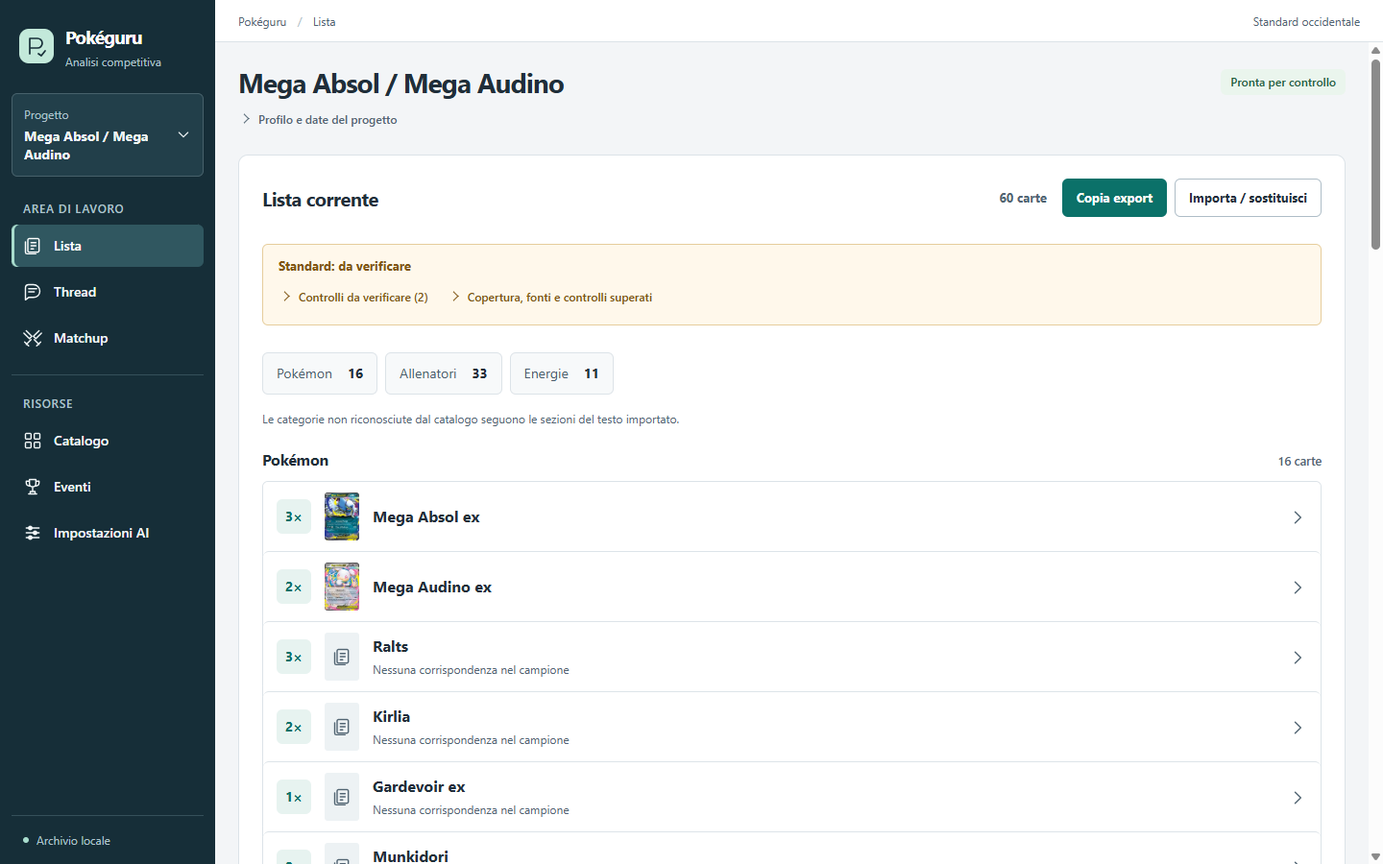
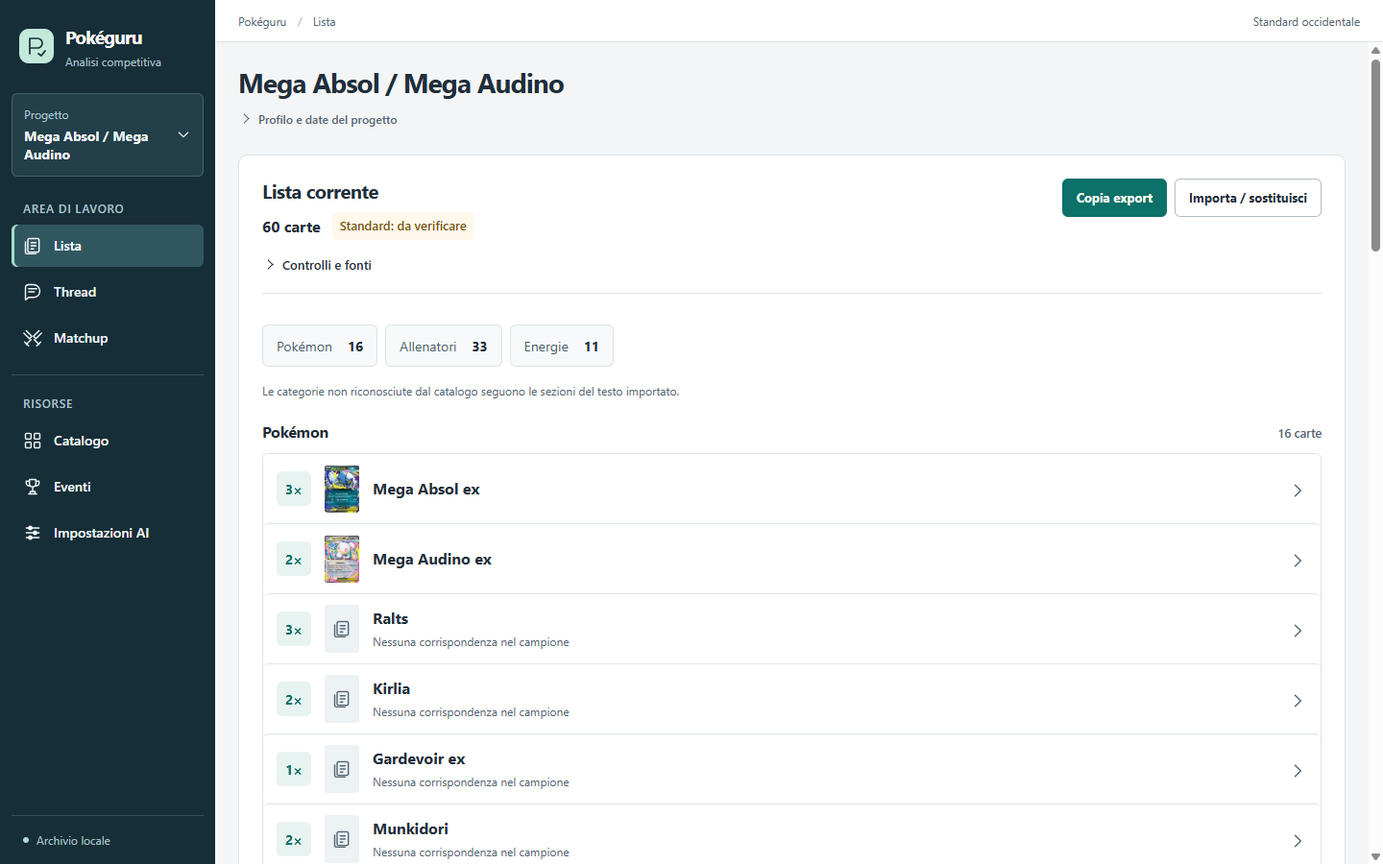
fix(ui): unify deck total and Standard status summary

diff --git a/src/renderer/src/DeckList.tsx b/src/renderer/src/DeckList.tsx
@@ -13,6 +13,7 @@ import type { StandardRuleAudit } from '../../shared/standard-rule-audit'
 import { reviewSummary } from './review-summary'
 import { CardThumbnail } from './CardThumbnail'
 import { deckThumbnail, groupDeckCards } from './deck-presentation'
+import { ExportButton } from './ExportButton'
 
 function localDate(): string {
   const now = new Date()
@@ -32,13 +33,14 @@ function cardStatus(status: 'recognized' | 'unverified' | 'ambiguous' | 'outside
     catalog.scope.kind === 'sample' ? 'Nessuna corrispondenza nel campione' : 'Nessuna corrispondenza locale'
 }
 
-export function DeckList({ projectId, baseline, onOpenCatalog, onConstrain }: {
-  projectId: string; baseline: DeckBaseline; onOpenCatalog(): void; onConstrain(identityId: string): void
+export function DeckList({ projectId, baseline, onOpenCatalog, onConstrain, onImport }: {
+  projectId: string; baseline: DeckBaseline; onOpenCatalog(): void; onConstrain(identityId: string): void; onImport(): void
 }) {
   const [catalog, setCatalog] = useState<CatalogView | null>(null)
   const [ruleAudit, setRuleAudit] = useState<StandardRuleAudit | null>(null)
   const [reconciliation, setReconciliation] = useState<DeckReconciliation | null>(null)
   const [loading, setLoading] = useState(true)
+  const [dataUnavailable, setDataUnavailable] = useState(false)
   const [error, setError] = useState<string | null>(null)
   const [expanded, setExpanded] = useState<string | null>(null)
   const [saving, setSaving] = useState(false)
@@ -53,6 +55,7 @@ export function DeckList({ projectId, baseline, onOpenCatalog, onConstrain }: {
   useEffect(() => {
     let active = true
     setLoading(true)
+    setDataUnavailable(false)
     void Promise.all([window.projectsApi.getCatalog(), window.projectsApi.getReconciliation(projectId),
       window.projectsApi.getStandardRuleAudit()])
       .then(([catalogResult, reconciliationResult, auditResult]) => {
@@ -64,7 +67,7 @@ export function DeckList({ projectId, baseline, onOpenCatalog, onConstrain }: {
         setReconciliation(reconciliationResult.value)
         setRuleAudit(auditResult.value)
       })
-      .catch((cause) => { if (active) setError(cause instanceof Error ? cause.message : 'Lista non disponibile.') })
+      .catch((cause) => { if (active) { setDataUnavailable(true); setError(cause instanceof Error ? cause.message : 'Lista non disponibile.') } })
       .finally(() => { if (active) setLoading(false) })
     return () => { active = false }
   }, [projectId, baseline.importedAt])
@@ -81,6 +84,11 @@ export function DeckList({ projectId, baseline, onOpenCatalog, onConstrain }: {
   const promoByLine = new Map(promoAdmission.lines.map((line) => [line.lineNumber, line]))
   const standardDeck = useMemo(() => evaluateStandardDeck(baseline, catalog, asOf, ruleAudit), [baseline, catalog, asOf, ruleAudit])
   const reviewItems = useMemo(() => reviewSummary(standardDeck.toReview), [standardDeck])
+  const importProblems = baseline.diagnostics.filter((item) => item.code === 'UNPARSED' || item.code === 'TOTAL_MISMATCH')
+  const standardTone = loading || dataUnavailable ? 'neutral' : standardDeck.status === 'problem' ? 'problem' : standardDeck.legality === 'supported' ? 'success' : 'review'
+  const standardLabel = loading ? 'Standard: controllo…' : dataUnavailable ? 'Standard: non disponibile'
+    : standardDeck.status === 'problem' ? `Standard: ${standardDeck.problems.length} ${standardDeck.problems.length === 1 ? 'problema certo' : 'problemi certi'}`
+      : standardDeck.legality === 'supported' ? 'Standard: conforme allo snapshot' : 'Standard: da verificare'
 
   function jumpToGroup(id: string): void {
     const heading = document.getElementById(`deck-group-${id}`)
@@ -124,13 +132,24 @@ export function DeckList({ projectId, baseline, onOpenCatalog, onConstrain }: {
 
   return <div className="deck-list-body">
     {error && <div className="error-banner" role="alert">{error}</div>}
-    {!loading && !catalog?.syncedAt && <p className="diagnostics">Catalogo non sincronizzato · <button type="button" className="text-button" onClick={onOpenCatalog}>Apri Catalogo</button></p>}
-    <section className={`standard-deck-panel ${standardDeck.status}`} aria-label="Esito Standard occidentale">
-      <strong>Standard: {standardDeck.status === 'problem' ? `${standardDeck.problems.length} ${standardDeck.problems.length === 1 ? 'problema certo' : 'problemi certi'}` :
-        standardDeck.status === 'review' ? 'da verificare' : 'controlli disponibili superati'}</strong>
-      {standardDeck.problems.length > 0 && <div><b>Problemi accertati</b><ul>{standardDeck.problems.map((reason, index) => <li key={index}>{reason}</li>)}</ul></div>}
-      {reviewItems.length > 0 && <details className="standard-explanation"><summary>Controlli da verificare ({reviewItems.length})</summary><ul>{reviewItems.map((reason, index) => <li key={index}>{reason}</li>)}</ul></details>}
-      <details className="standard-explanation"><summary>Copertura, fonti e controlli superati</summary>
+    <section className="standard-deck-panel" aria-label="Esito Standard occidentale">
+      <div className="deck-summary-heading">
+        <div className="deck-summary-title">
+          <h2>Lista corrente</h2>
+          <div className="deck-summary-status">
+            <strong data-testid="card-total">{baseline.interpretedTotal} carte</strong>
+            <span className="standard-status" data-tone={standardTone} role="status">{standardLabel}</span>
+          </div>
+        </div>
+        <div className="deck-heading-actions">
+          <ExportButton baseline={baseline} />
+          <button type="button" className="secondary-button" onClick={onImport}>Importa / sostituisci</button>
+        </div>
+      </div>
+      {standardDeck.problems.length > 0 && <ul className="standard-problems" aria-label="Problemi accertati">{standardDeck.problems.map((reason, index) => <li key={index}>{reason}</li>)}</ul>}
+      <details className="standard-details"><summary>Controlli e fonti</summary>
+      {reviewItems.length > 0 && <div className="standard-review"><h3>Da verificare ({reviewItems.length})</h3><ul>{reviewItems.map((reason, index) => <li key={index}>{reason}</li>)}</ul></div>}
+      <h3>Copertura e fonti</h3>
       <p>Data {asOf}. Fonti del pacchetto: {ruleAudit?.status === 'matching' ? `coerenti al ${ruleAudit.checkedAt.slice(0, 10)}` : ruleAudit?.status === 'changed' ? 'da rivedere' : ruleAudit?.status === 'unavailable' ? 'non raggiungibili all’ultimo controllo' : 'non ricontrollate da questa installazione'}. {standardDeck.legality === 'supported'
         ? 'La lista è conforme ai controlli Standard coperti dal pacchetto incluso. La verifica riguarda la lista e le stampe riconosciute, non lingua, autenticità o condizioni delle carte fisiche.'
         : standardDeck.legality === 'invalid' ? 'La lista viola almeno una regola Standard verificata.'
@@ -141,6 +160,12 @@ export function DeckList({ projectId, baseline, onOpenCatalog, onConstrain }: {
       {standardDeck.passed.length > 0 && <details><summary>Controlli superati ({standardDeck.passed.length})</summary><ul>{standardDeck.passed.map((item) => <li key={item}>{item}</li>)}</ul></details>}
       </details>
     </section>
+    {baseline.declaredTotal !== null && baseline.declaredTotal !== baseline.interpretedTotal && <p className="diagnostics">Totale dichiarato: {baseline.declaredTotal}; interpretato: {baseline.interpretedTotal}.</p>}
+    {importProblems.length > 0 && <details className="diagnostics" role="status">
+      <summary>Testo importato · {importProblems.length} {importProblems.length === 1 ? 'problema' : 'problemi'} da correggere</summary>
+      <ul>{baseline.diagnostics.map((item, index) => <li key={`${item.lineNumber}-${item.code}-${index}`}>{item.lineNumber ? `Riga ${item.lineNumber}: ` : ''}{item.message}</li>)}</ul>
+    </details>}
+    {!loading && !catalog?.syncedAt && <p className="diagnostics">Catalogo non sincronizzato · <button type="button" className="text-button" onClick={onOpenCatalog}>Apri Catalogo</button></p>}
     <p className="content-note">Apri una carta per vedere stampe e righe importate.</p>
     {loading ? <p className="content-note">Caricamento carte…</p> : <div className="deck-card-groups" aria-label="Carte della lista corrente">
       <nav className="deck-composition" aria-label="Composizione del mazzo">{groups.filter((group) => group.id !== 'unknown' || group.total > 0).map((group) =>

diff --git a/src/renderer/src/styles.css b/src/renderer/src/styles.css
@@ -112,20 +112,30 @@ details[open] > summary { margin-bottom: 8px; }
 .file-picker { cursor: pointer; }
 .original-text, .deck-technical { margin-top: 20px; border-top: 1px solid var(--line); padding-top: 8px; }
 .original-text pre { margin-top: 8px; }
-.deck-list-body { display: flex; flex-direction: column; margin-top: 12px; }
+.deck-list-body { display: flex; flex-direction: column; }
 .deck-list-body > .error-banner { order: -3; }
 .deck-list-body > .standard-deck-panel { order: -2; }
 .deck-list-body > .diagnostics { order: -1; }
 .deck-list-body > .content-note { order: 1; }
 .deck-list-body > .deck-technical { order: 2; }
-.standard-deck-panel, .rotation-panel, .construction-panel, .constraint-legality { margin: 12px 0; padding: 12px 16px; background: var(--surface-subtle); border: 1px solid var(--line); border-radius: var(--radius-sm); font-size: var(--text-sm); line-height: 1.6; }
-.standard-deck-panel.problem { color: var(--danger); background: var(--danger-soft); border-color: var(--danger-line); }
-.standard-deck-panel.review { color: var(--warning); background: var(--warning-soft); border-color: var(--warning-line); }
-.standard-deck-panel > strong { display: block; font-weight: 650; }
+.rotation-panel, .construction-panel, .constraint-legality { margin: 12px 0; padding: 12px 16px; background: var(--surface-subtle); border: 1px solid var(--line); border-radius: var(--radius-sm); font-size: var(--text-sm); line-height: 1.6; }
+.standard-deck-panel { margin: 0 0 16px; padding: 0 0 12px; border-bottom: 1px solid var(--line); font-size: var(--text-sm); line-height: 1.6; }
+.deck-summary-heading { display: flex; flex-wrap: wrap; align-items: flex-start; justify-content: space-between; gap: 16px; }
+.deck-summary-title { display: grid; gap: 10px; }
+.deck-summary-title h2 { margin: 0; font-size: var(--text-lg); }
+.deck-summary-status { display: flex; flex-wrap: wrap; align-items: center; gap: 12px; }
+.deck-summary-status > strong { font-size: var(--text-md); font-variant-numeric: tabular-nums; }
+.standard-status { padding: 4px 8px; border-radius: var(--radius-sm); font-size: var(--text-sm); font-weight: 600; color: var(--ink-secondary); background: var(--surface-hover); }
+.standard-status[data-tone=problem] { color: var(--danger); background: var(--danger-soft); }
+.standard-status[data-tone=review] { color: var(--warning); background: var(--warning-soft); }
+.standard-status[data-tone=success] { color: var(--success); background: var(--success-soft); }
+.standard-deck-panel .standard-problems { margin: 16px 0 8px; padding: 12px 16px 12px 32px; border-left: 3px solid var(--danger); border-radius: var(--radius-sm); background: var(--danger-soft); color: var(--danger); }
+.standard-details { margin-top: 8px; }
+.standard-details h3 { margin: 16px 0 8px; font-size: var(--text-base); }
+.standard-review { color: var(--warning); }
 .standard-deck-panel p, .rotation-panel p { margin: 8px 0; }
 .standard-deck-panel summary { color: inherit; }
 .standard-deck-panel ul { margin: 8px 0; }
-.standard-explanation { margin-top: 4px; }
 .construction-panel ul { list-style: none; padding: 0; display: grid; gap: 8px; }
 .construction-panel li { display: flex; align-items: baseline; gap: 12px; }
 .construction-status { min-width: 90px; font-weight: 600; }
@@ -350,12 +360,6 @@ details[open] > summary { margin-bottom: 8px; }
 @media (forced-colors: active) { button.active, button.selected { outline: 2px solid Highlight; outline-offset: -3px; } }
 
 .panel-actions { display: flex; align-items: center; flex-wrap: wrap; gap: 8px; }
-.baseline-panel > .panel-heading h2 { font-size: var(--text-lg); }
-.standard-deck-panel { display: flex; flex-wrap: wrap; gap: 0 20px; }
-.standard-deck-panel > strong, .standard-deck-panel > div, .standard-deck-panel > details[open] { width: 100%; }
-.standard-deck-panel > details:not([open]) { flex: 0 1 auto; }
-.standard-deck-panel > .standard-explanation { margin-top: 4px; }
-.standard-deck-panel > .standard-explanation > summary { font-size: var(--text-xs); }
 .deck-list-body > .diagnostics { margin: 0 0 4px; padding: 8px 12px; }
 .deck-card-toggle[aria-expanded=true] .deck-card-chevron { transform: rotate(90deg); }
 .meta-disclosure { display: block; padding: 4px 12px; }

diff --git a/src/renderer/src/App.tsx b/src/renderer/src/App.tsx
@@ -7,7 +7,6 @@ import { CatalogSection } from './CatalogSection'
 import { DeckList } from './DeckList'
 import { DeckCompanion } from './DeckCompanion'
 import { ConstraintsSection } from './ConstraintsSection'
-import { ExportButton } from './ExportButton'
 import { ThreadsSection } from './ThreadsSection'
 import { TournamentSection } from './TournamentSection'
 import { Icon } from './Icon'
@@ -264,7 +263,7 @@ export function App() {
                 <div>
                   <h1 data-testid="selected-project-name">{selected.name}</h1>
                 </div>
-                <span className={`status-pill status-${selected.status.toLowerCase()}`}>{statusLabel(selected.status)}</span>
+                {activeTab !== 'deck' && <span className={`status-pill status-${selected.status.toLowerCase()}`}>{statusLabel(selected.status)}</span>}
               </div>
               <details className="project-meta-details"><summary>Profilo e date del progetto</summary><div className="detail-meta">
                 <div><span>Formato</span><strong>Standard</strong></div>
@@ -276,24 +275,7 @@ export function App() {
               {activeTab === 'deck' ? <>
               {baselineLoading ? <p className="content-note">Caricamento lista…</p> : baseline ? (
                 <div className="baseline-panel" data-testid="baseline-panel">
-                  <div className="panel-heading">
-                    <div>
-                      <h2>Lista corrente</h2>
-                    </div>
-                    <div className="deck-heading-actions">
-                      <strong data-testid="card-total">{baseline.interpretedTotal} carte</strong>
-                      <ExportButton key={`${selected.id}:${baseline.importedAt}`} baseline={baseline} />
-                      <button type="button" className="secondary-button" onClick={() => focusImport()}>Importa / sostituisci</button>
-                    </div>
-                  </div>
-                  {baseline.declaredTotal !== null && baseline.declaredTotal !== baseline.interpretedTotal && <p className="diagnostics">Totale dichiarato: {baseline.declaredTotal}; interpretato: {baseline.interpretedTotal}.</p>}
-                  {importProblems.length > 0 && (
-                    <details className={importProblems.length ? 'diagnostics' : 'project-meta-details'} role={importProblems.length ? 'status' : undefined}>
-                      <summary>{importProblems.length ? `Testo importato · ${importProblems.length} ${importProblems.length === 1 ? 'problema' : 'problemi'} da correggere` : 'Note sul testo importato'}</summary>
-                      <ul>{baseline.diagnostics.map((item, index) => <li key={`${item.lineNumber}-${item.code}-${index}`}>{item.lineNumber ? `Riga ${item.lineNumber}: ` : ''}{item.message}</li>)}</ul>
-                    </details>
-                  )}
-                  <DeckList key={`${selected.id}:${baseline.importedAt}`} projectId={selected.id} baseline={baseline} onOpenCatalog={() => setView('catalog')} onConstrain={selectConstraintTarget} />
+                  <DeckList key={`${selected.id}:${baseline.importedAt}`} projectId={selected.id} baseline={baseline} onOpenCatalog={() => setView('catalog')} onConstrain={selectConstraintTarget} onImport={focusImport} />
                   <details className="project-meta-details"><summary>Origine della lista</summary><p className="content-note">{baseline.source === 'file' ? `File: ${baseline.fileName}` : 'Testo incollato'} · {formatDate(baseline.importedAt)}</p></details>
                   {importProblems.length === 0 && baseline.diagnostics.length > 0 && <details className="project-meta-details"><summary>Note sul testo importato</summary><ul>{baseline.diagnostics.map((item, index) => <li key={index}>{item.message}</li>)}</ul></details>}
                   <details className="original-text"><summary>Mostra testo originale e tutte le righe</summary><pre>{baseline.rawText}</pre></details>

diff --git a/docs/BACKLOG.md b/docs/BACKLOG.md
@@ -69,6 +69,7 @@ Dimensioni relative: **S** contenuto, **M** medio, **L** epica da scomporre prim
 | **APP-060** | Eliminare la lista duplicata dalla vista Lista | UI/UX | R-03, R-08, R-10 / qualità pre-I4 | P0 / S | APP-059; conferma utente durante la revisione condivisa | Done |
 | **APP-061** | Selettore progetti con ricerca e creazione | UI/UX | R-03 / qualità pre-I4 | P0 / S | APP-060; selettore approvato dall'utente | Done |
 | **APP-062** | Lista per categorie con conteggi e miniature | UI/UX | R-02, R-03, R-04 / qualità pre-I4 | P0 / S | APP-061; preferenza utente confermata | Done |
+| **APP-063** | Riepilogo unico di totale e stato Standard nella Lista | UI/UX | R-02, R-03 / qualità pre-I4 | P0 / S | APP-062; riepilogo approvato dall'utente | Done |
 
 ## Task dettagliati I0–I2
 
@@ -541,6 +542,15 @@ Dimensioni relative: **S** contenuto, **M** medio, **L** epica da scomporre prim
 - **Risultato:** Lista a righe con quantità, miniatura 36×50 px e nome a 16 px; sezioni Pokémon, Allenatori ed Energie con totali di copie e riepilogo cliccabile. I conteggi usano le carte riconciliate; categorie dal catalogo, in mancanza intestazioni esplicite dell'import con nota, altrimenti “Da classificare”. Immagini dalla stampa importata o dalla stessa identità, mai da semplici nomi ambigui; segnaposto stabile per miniature assenti o non leggibili. Nessuna modifica al modello, ai validatori o alle integrazioni.
 - **Verifiche Windows:** build/typecheck, quattro test mirati su conteggi/categorie conflittuali/scelta immagini, Electron riconciliazione/vincoli/isolamento e workspace passati. Layout 1440×900, 1280×720, 1241/1240×720, 1024×768 e 640×720; conteggi 16/33/11 con catalogo vuoto, navigazione tra sezioni e dettagli verificati. Corretto il salto alle categorie perché scorra soltanto l'area di lavoro; corretto un contrasto insufficiente dell'etichetta progetto nel selettore aperto. Immagine valida e immagine non leggibile provate con fixture; campione reale TCGdex acquisito nel solo profilo demo (41 stampe, 41 miniature), schermate Lista ispezionate a 1440/1280/640.
 - **Limiti:** il campione non copre tutte le carte della demo; quelle senza identità/immagine usano il segnaposto. Categorie dall'import non attestano legalità. Nessuna generazione AI o nuova prova Linux; nessun merge o release.
+
+### APP-063 — Intestazione e stato della Lista
+
+- **Autorizzazione:** l'utente approva un solo riepilogo con totale carte e stato Standard, con dettagli apribili. Task Ready circoscritto e avviato sul ramo del design system.
+- **Accettazione:** nella vista Lista sparisce “Pronta per controllo”; totale, stato Standard e azioni sono nello stesso riepilogo. Problemi certi subito leggibili; incertezze esplicite, fonti e dettagli apribili. Caricamento/errore non devono sembrare controlli positivi.
+- **Verifica prevista:** build; Electron per lista incerta, invalida e conforme allo snapshot, fonti consultabili, import/export e layout a 1440×900 e 1280×720.
+- **Risultato:** nella Lista totale, stato Standard e azioni sono raccolti in un'intestazione neutra; rimossa l'etichetta di progetto “Pronta per controllo”. “Controlli e fonti” apre incertezze, copertura e riferimenti; problemi certi restano visibili. Il badge positivo richiede conformità allo snapshot, il campione parziale resta da verificare. Caricamento e dati non disponibili hanno stati espliciti; un errore nel salvataggio di una correzione non altera lo stato di disponibilità dei controlli.
+- **Verifiche Windows:** build/typecheck, workspace UI, Standard legality, export, smoke offline e riconciliazione passati. Verificati totale unico, assenza del vecchio badge, apertura dettagli da tastiera, problema certo visibile, conformità dello snapshot e passaggio a data non coperta, copia/reimport e blocco su testo non interpretabile. Layout e contrasto a 1440×900, 1280×720 e viste compatte; schermate della demo con catalogo ispezionate e aggiornate.
+- **Limiti:** verifiche Standard con fixture dichiarate; nessuna modifica ai validatori, nessuna nuova generazione AI o prova Linux. Nessun merge o release.
 
 ## Regola per i blocchi
 

diff --git a/docs/DESIGN_SYSTEM.md b/docs/DESIGN_SYSTEM.md
@@ -28,6 +28,7 @@ L'audit comprende codice e avvio della versione integrata, schermate di Lista, c
 - **Navigazione:** selettore del progetto attivo, tre aree del mazzo, risorse globali. Sidebar desktop di **224 px**. Il selettore apre ricerca, elenco scorrevole e “Nuovo progetto”; a finestra stretta si compatta in un pulsante. Escape chiude e restituisce il focus; frecce e Invio consentono di scegliere. Decisione approvata in APP-061.
 - **Lavoro:** contenuto centrale fluido con scorrimento indipendente. La larghezza delle singole componenti risponde allo spazio effettivo tramite container query.
 - **Vista Lista:** una sola lista nell'area di lavoro disponibile, senza riepilogo laterale o dock; decisione confermata dall'utente in APP-060.
+- **Intestazione Lista (APP-063):** titolo, totale e stato Standard nello stesso riepilogo, azioni a destra quando lo spazio lo consente. Nessun badge “Pronta per controllo” in questa vista. “Controlli e fonti” apre dettagli e incertezze; problemi certi subito visibili. Conformità positiva sempre qualificata dallo snapshot, campione parziale da verificare.
 - **Carte della Lista (APP-062):** righe di almeno 72 px, miniatura 36×50 px, quantità e nome a 16 px. Sezioni Pokémon/Allenatori/Energie con conteggi delle copie; riepilogo cliccabile per raggiungerle. Categoria dal catalogo o dalle intestazioni esplicite dell'import, con nota; altrimenti “Da classificare”. Miniature esistenti della stessa identità, segnaposto stabile quando assenti o non leggibili.
 - **Lista persistente in Thread e Matchup:** **384 px fissi** sopra 1240 px di finestra. Quantità, sezioni e stato restano leggibili; nomi lunghi vanno a capo. Lo stato “Pronta per controllo” è neutro: non equivale a Standard verificato.
 - **Finestra stretta:** fino a 1240 px, navigazione a icone e lista in dock inferiore di 220 px solo in Thread e Matchup, sempre parte della griglia. A 640 px la navigazione diventa orizzontale. Nessun pannello copre il contenuto.

diff --git a/docs/DECISIONS.md b/docs/DECISIONS.md
@@ -77,6 +77,12 @@ L'utente sceglie righe con piccole miniature e sezioni Pokémon, Allenatori ed E
 
 La categoria del catalogo ha precedenza; in assenza si usano soltanto sezioni esplicite del testo importato, con nota. Categorie ignote o discordanti restano “Da classificare”. La miniatura privilegia una stampa importata, poi una della stessa identità; nessuna inferenza dall'omonimia. Immagine assente/non leggibile: segnaposto neutro delle stesse dimensioni. Nessuna modifica al catalogo di produzione o alle integrazioni; la demo usa il campione acquisito attraverso il connettore esistente.
 
+### T-52 — Riepilogo unico della Lista (APP-063)
+
+L'utente approva un solo riepilogo con totale carte e stato Standard. Nella vista Lista si rimuove il badge “Pronta per controllo”, che dipende dal totale e non dalla validazione. Intestazione neutra con titolo, totale, badge Standard e azioni; “Controlli e fonti” raccoglie dettagli e incertezze. I problemi certi restano fuori dalla disclosure.
+
+L'esito positivo è “Standard: conforme allo snapshot” soltanto quando il validatore restituisce conformità supportata. Campione parziale e casi indeterminati restano da verificare; caricamento e dati non disponibili sono espliciti. Nessun cambio al significato o al calcolo dei validatori; lo stato generico del progetto nelle altre viste sarà oggetto della loro revisione.
+
 ## Registro delle fonti primarie
 
 | ID | Fonte consultata il 23-10-2026 | Conclusione utilizzabile | Limite e verifica futura |

diff --git a/README.md b/README.md
@@ -34,6 +34,8 @@ APP-061 sostituisce l'elenco permanente dei progetti con un **selettore in alto*
 
 APP-062 organizza la **Lista** in righe con miniature e sezioni **Pokémon, Allenatori ed Energie**, con conteggi delle copie e riepilogo cliccabile. Le immagini disponibili provengono dal catalogo locale; quelle mancanti hanno un segnaposto. Le categorie seguono il catalogo o, con nota, le intestazioni dell'import; i casi ignoti restano “Da classificare”.
 
+APP-063 riunisce **totale e stato Standard** nell'intestazione della Lista, sostituendo il badge “Pronta per controllo”. **Controlli e fonti** apre gli approfondimenti; i problemi certi restano subito visibili.
+
 Il ramo `task/production-design-system` rifinisce tutte le viste dell'app con token condivisi, tipografia sans, icone SVG, controlli leggibili e stati coerenti. La sidebar desktop è larga **224 px**; la lista principale rimane fissa a **384 px**, con dock di 220 px sotto la soglia di 1240 px. Il primo progetto si crea nell'area centrale. Metadati e metodo precedono meno spesso carte, differenze e strategia; focus e scorrimento sono verificati anche da tastiera.
 
 L'[audit e le regole del design system](docs/DESIGN_SYSTEM.md) descrivono le scelte e i percorsi di prova. `node tests/workspace-ui-live.mjs --keep-profile`, dopo la build, conserva e stampa un profilo dimostrativo isolato. La guida e le liste di prova sono esempi UI, non nuove generazioni Codex. La rifinitura non è ancora integrata in `dev` né nella release v0.1.0.

diff --git a/docs/PLAN.md b/docs/PLAN.md
@@ -96,6 +96,8 @@ Al termine di ciascun incremento, mostrare il percorso utente, registrare eviden
 
 ## Ripresa
 
+- **APP-063 completato:** riepilogo unico di totale e stato Standard nella Lista; incertezze/fonti apribili e problemi certi visibili. Verifiche UI e import/export passate su Windows. Prossimo punto della revisione condivisa: dettaglio della carta, con proposta di dare precedenza a immagine e testo di gioco rispetto a stampe e righe importate.
+
 - **APP-062 completato:** righe con miniature e categorie Pokémon/Allenatori/Energie con conteggi, dati mancanti espliciti. Build, conteggi, riconciliazione, immagini e layout verificati su Windows; campione catalogo acquisito nel solo profilo demo per la prova con miniature reali. Prossimo punto proposto nella revisione condivisa: intestazione e stato della Lista, da discutere prima di modificare.
 
 - **APP-061 completato:** selettore progetti approvato, con ricerca e creazione nello stesso menu; verifiche Windows di tastiera, responsive e isolamento passate. Prossimo punto della revisione condivisa: struttura della Lista e rappresentazione delle carte; proposte da discutere prima di applicarle.
